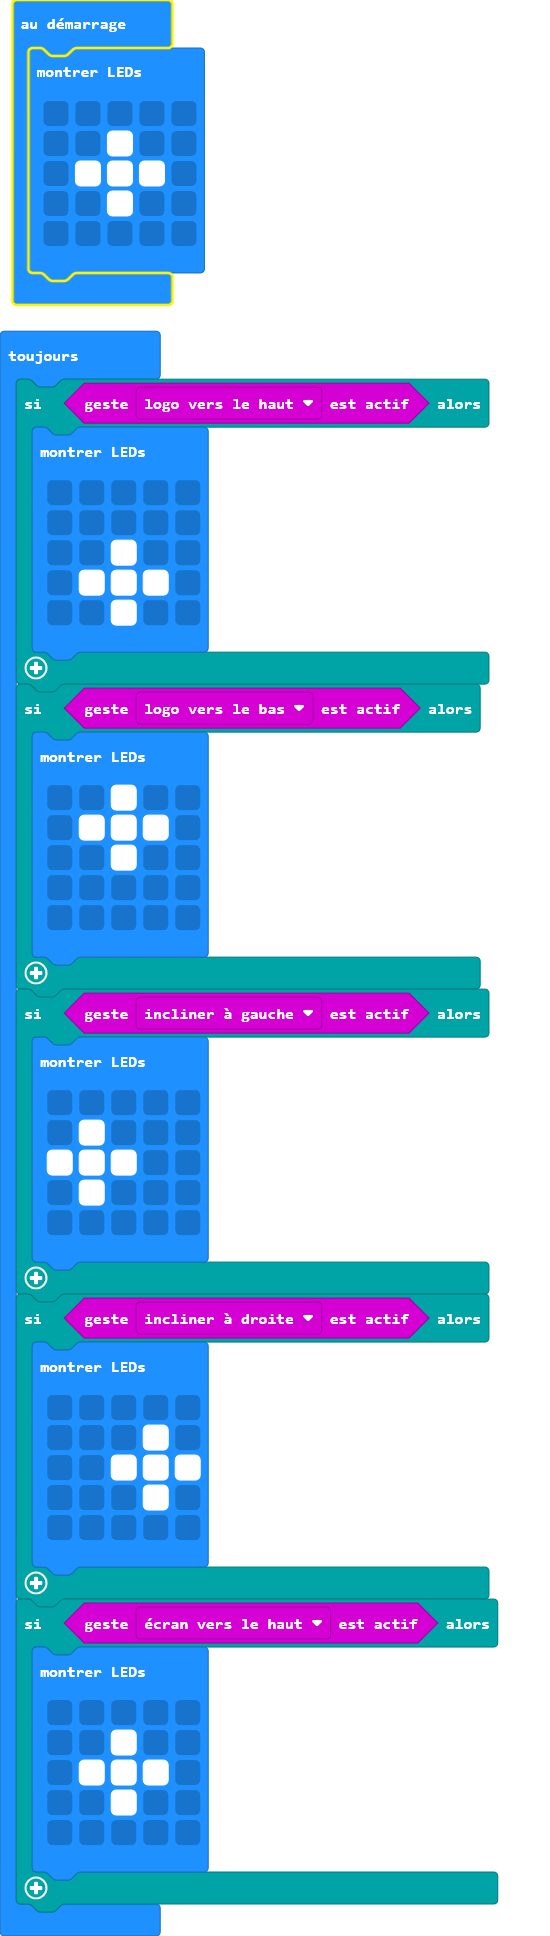
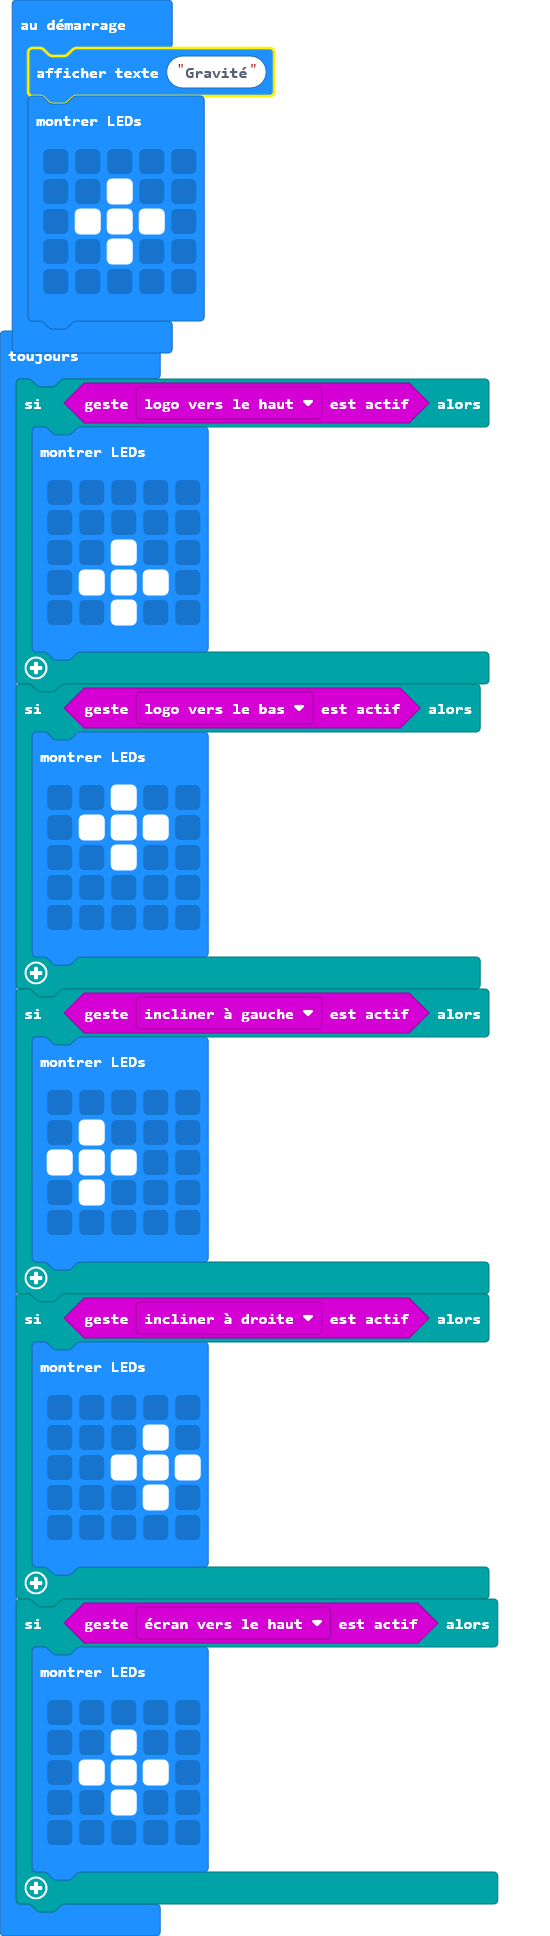
Mise à jour main.blocks, main.ts

Changed region(s): [[0.0, 0.0, 0.5255, 0.186]]

diff --git a/main.ts b/main.ts
@@ -1,3 +1,4 @@
+basic.showString("Gravité")
 basic.showLeds(`
     . . . . .
     . . # . .
